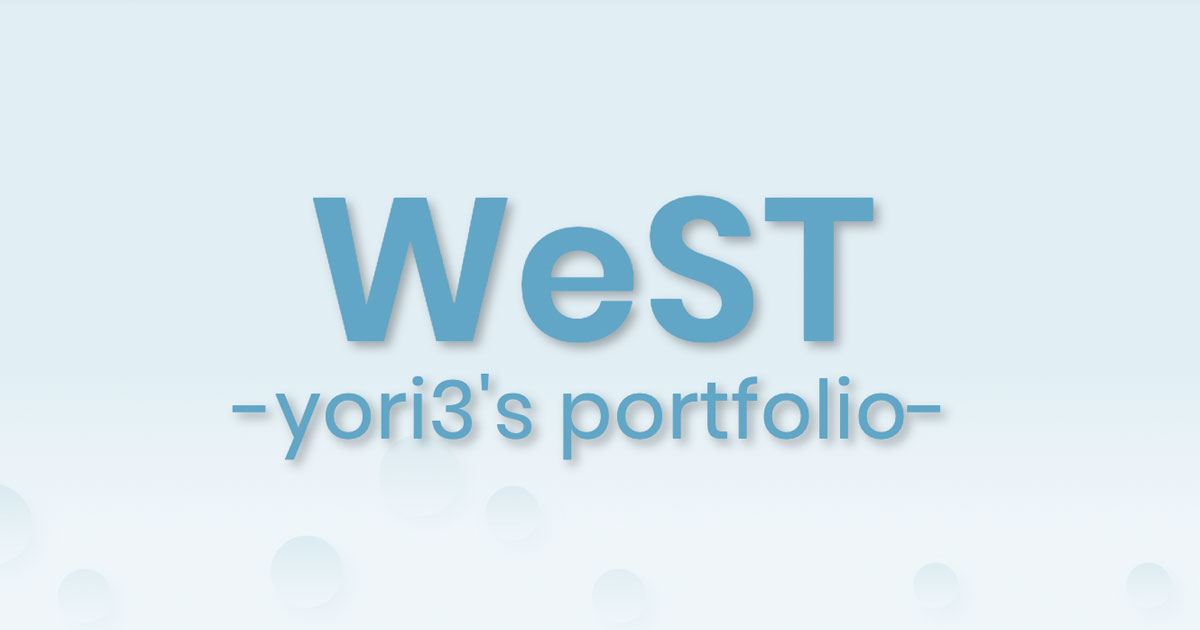
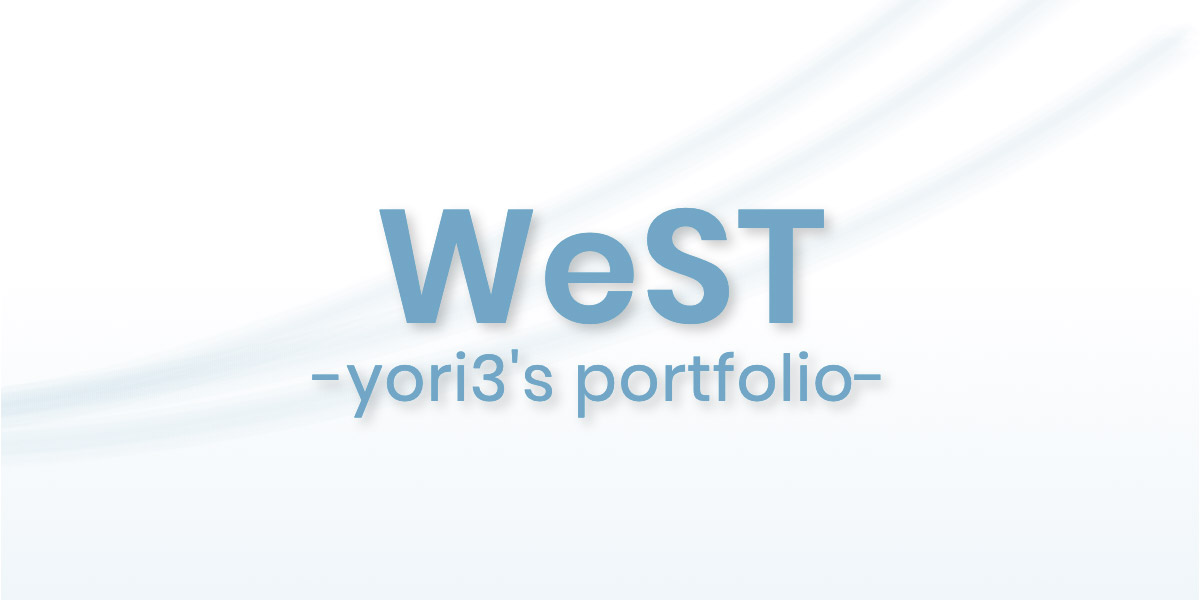
OGP変更・singleページのパンくずにカテゴリを追加

diff --git a/parts/fn-breadcrumb.php b/parts/fn-breadcrumb.php
@@ -33,12 +33,17 @@ function breadcrumb(){
 			$str.='<li>'. single_term_title('', $display = false) .'</li>';
 		}elseif(is_single()){//個別ページ
 			$post_type = get_post_type( $post );
+			$post_cat = get_the_category( $post );
 			if($post_type == 'post'){
 				$post_type_url = 'blog';
+
 			}else{
 				$post_type_url = $post_type;
 			}
-      $str.='<li><a href="/'. $post_type_url . '/"><span>'. get_post_type_object($post_type)->labels->singular_name . '</span></a></li>';
+			$str.='<li><a href="'. home_url(). '/'. $post_type_url . '/"><span>'. get_post_type_object($post_type)->labels->singular_name . '</span></a></li>';
+			if($post_cat[0] != 0){
+				$str.='<li><a href="'. home_url(). '/'. $post_cat[0]->slug . '/"><span>'. $post_cat[0]->name. '</span></a></li>';
+			}
       $str.='<li>'. get_the_title() .'</li>';
     }elseif(is_page()){//固定ページ
 			$page = get_post( get_the_ID() );

diff --git a/sidebar.php b/sidebar.php
@@ -1,14 +1,4 @@
 <aside class="sub_contents">
-  <!-- <nav class="side_box">
-    <h2 class="cont_ttl">CATEGORY</h2>
-    <ul class="cate_list">
-      <?php wp_list_categories('title_li='); ?>
-    </ul>
-  </nav>
-  <div class="side_box">
-    <h2 class="cont_ttl">Twitter</h2>
-    <a class="twitter-timeline" data-lang="ja" data-width="430" data-height="400" data-theme="light" data-chrome="noheader,nofooter" href="https://twitter.com/yori3_otim2">Tweets by yori3_otim2</a>
-  </div> -->
   <?php dynamic_sidebar( 'side_area' ); ?>
 
   <script async src="//platform.twitter.com/widgets.js" charset="utf-8"></script>
